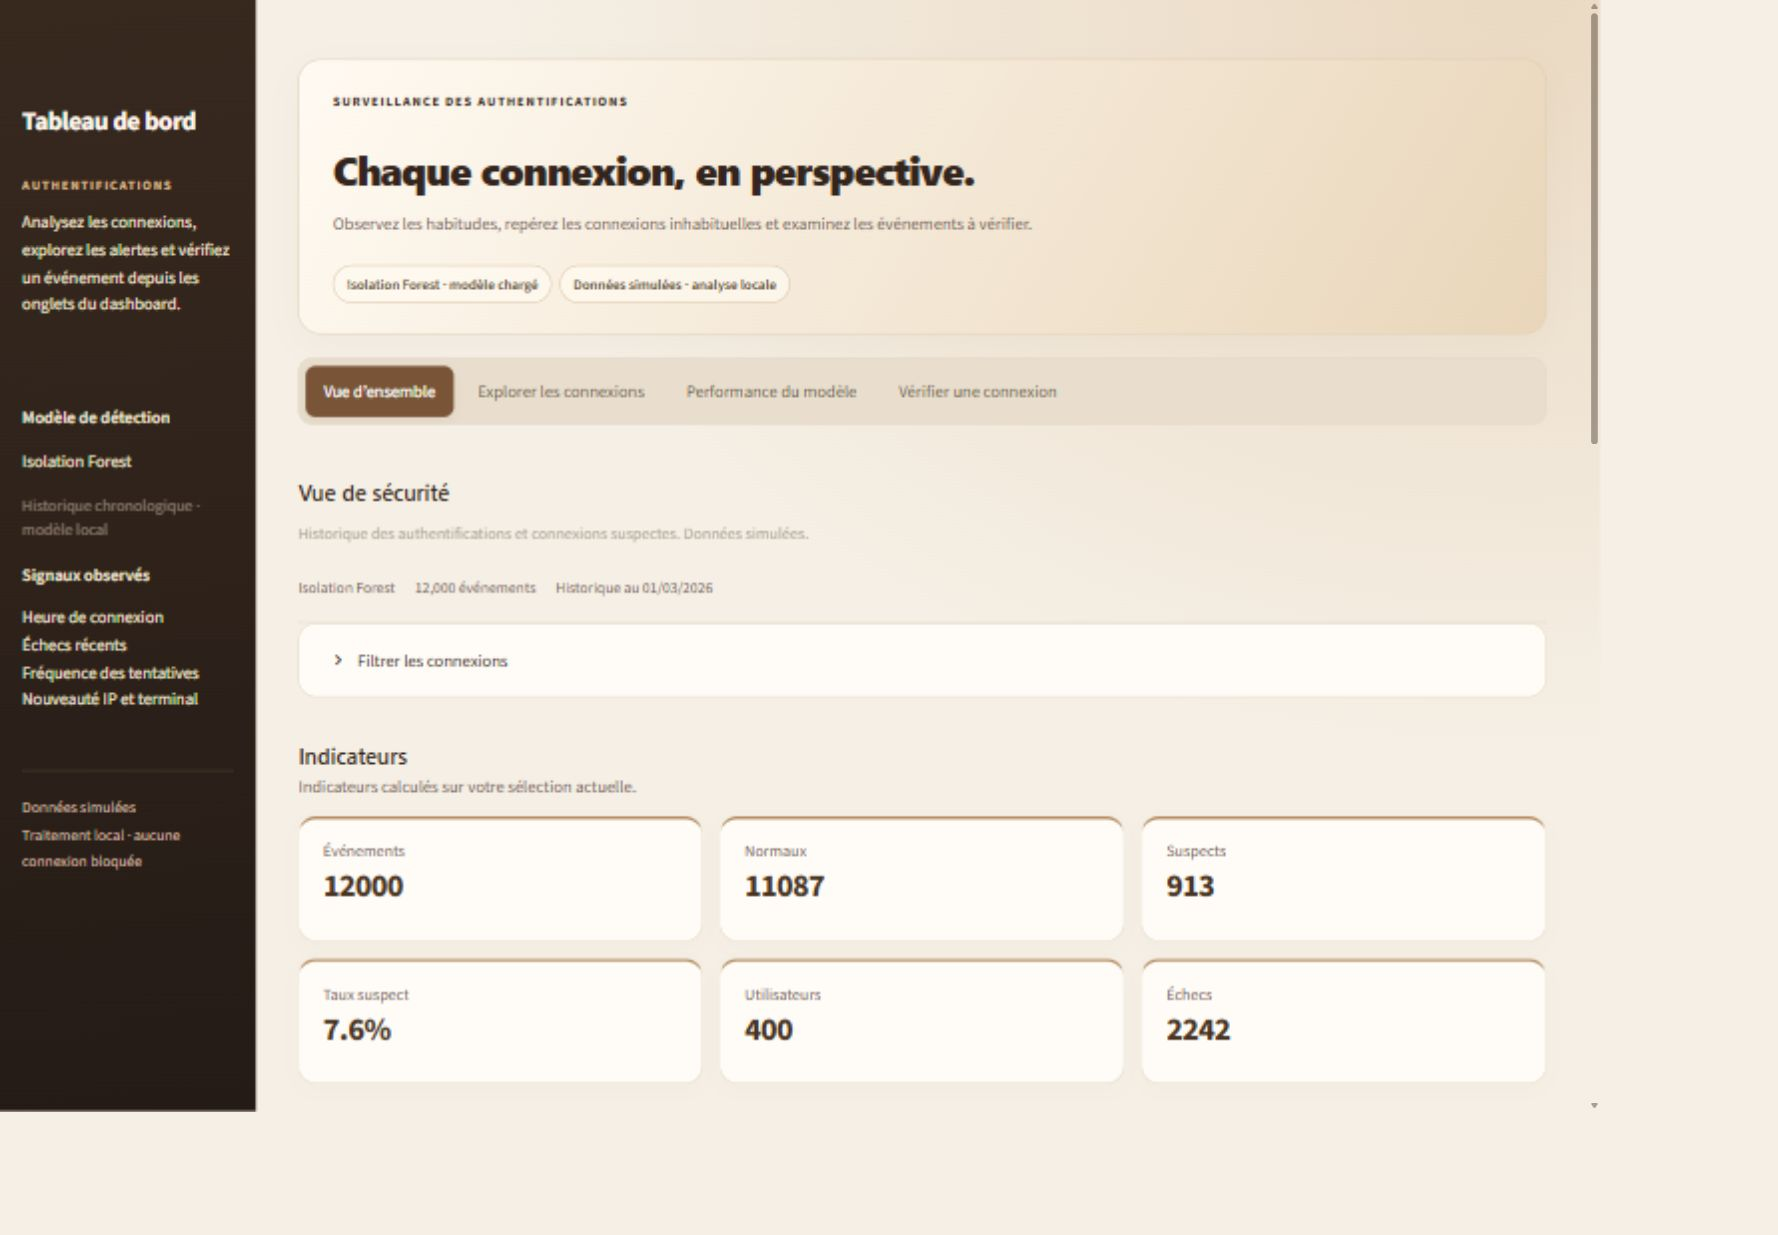
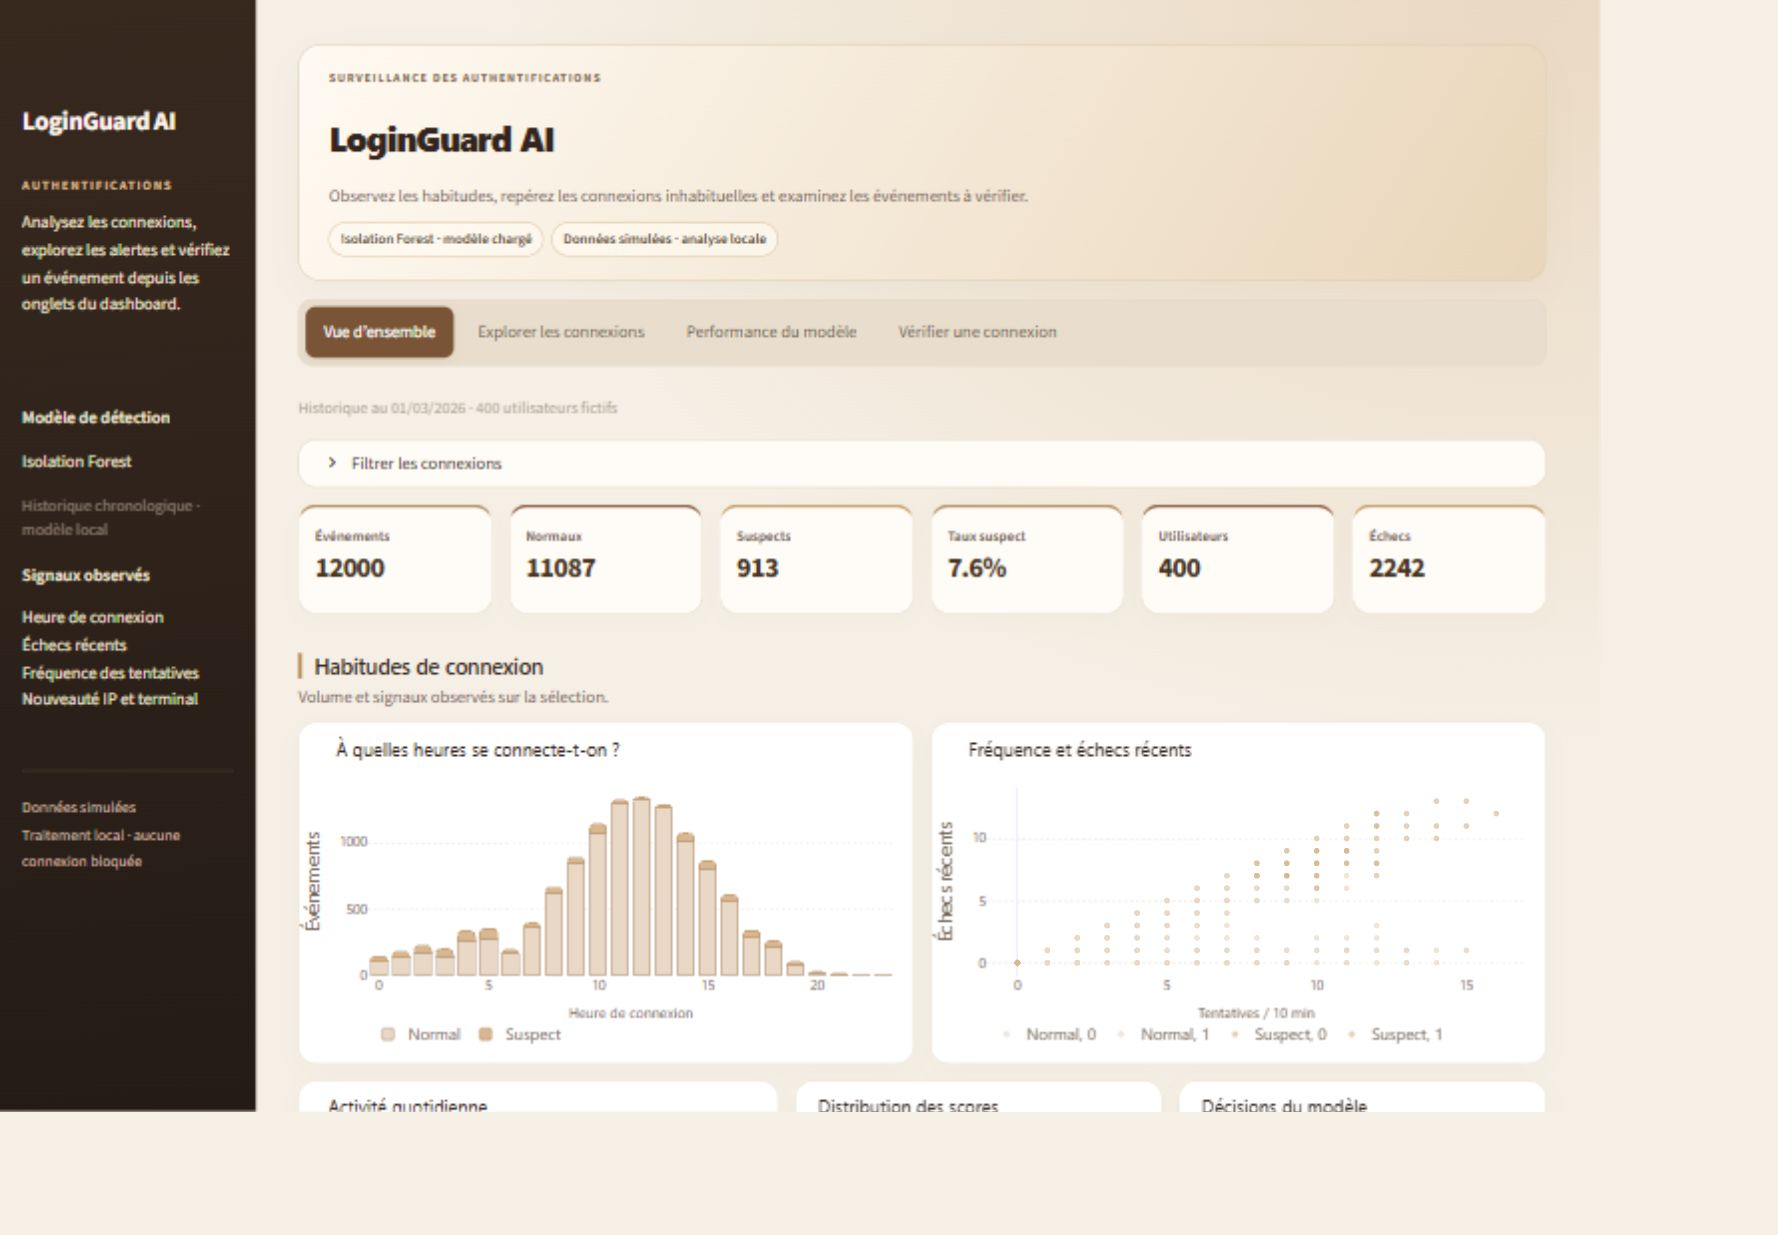
style: refine dashboard charts and introduce LoginGuard AI branding

Changed region(s): [[0.1547, 0.5231, 0.8661, 0.9231], [0.1547, 0.0615, 0.8661, 0.5231], [0.0, 0.0923, 0.1237, 0.1231]]

diff --git a/assets/style.css b/assets/style.css
@@ -38,3 +38,21 @@ button[kind="primary"]{background:#795437;color:white;border-color:#795437;}
 [data-testid="stAlert"]{border-radius:14px;}
 [data-testid="stAppDeployButton"]{display:none;}
 @media(max-width:900px){.block-container{padding:2rem 1rem;}.hero{padding:24px;}[data-baseweb="tab"]{padding:10px;}[data-testid="stMetric"]{padding:16px;}}
+/* Compact proportions from the supplied reference application. */
+.block-container{padding-top:1.6rem;}
+.hero{padding:24px 30px;margin-bottom:18px;}
+.hero h1{font-size:34px!important;margin:0;}
+.hero p{margin:6px 0;font-size:17px;}
+.eyebrow{font-size:12px;margin-bottom:8px;color:#856448;}
+.chip{padding:5px 11px;margin-top:8px;}
+[data-testid="stMetric"]{padding:17px 16px;min-height:110px;position:relative;overflow:hidden;}
+[data-testid="stMetricValue"]{font-size:28px;}
+[data-testid="stMetricLabel"] p{font-size:14px!important;font-weight:650;}
+[data-testid="stColumn"]:nth-child(3n+2) [data-testid="stMetric"]{border-top-color:#8b5b40;}
+[data-testid="stColumn"]:nth-child(3n) [data-testid="stMetric"]{border-top-color:#c69c66;}
+[data-testid="stPlotlyChart"]{box-shadow:0 8px 26px #63472c09;border-color:#e8dccb;}
+.section-heading{margin:22px 0 12px;}
+.section-heading h3{border-left:4px solid #b78a58;padding-left:12px;font-size:21px!important;}
+[data-baseweb="tab-list"]{margin-bottom:14px;}
+[data-testid="stExpander"] details{padding:3px 10px;}
+@media(min-width:641px) and (max-width:1050px){[data-testid="stHorizontalBlock"]{flex-wrap:wrap;}[data-testid="stColumn"]{min-width:210px;}}

diff --git a/src/views/overview.py b/src/views/overview.py
@@ -3,32 +3,37 @@ import streamlit as st
 from src.ui import header, resources, filters, chart, table, activity, section, COLORS, context_strip
 
 def render():
-    header('Vue de sécurité','Historique des authentifications et connexions suspectes. Données simulées.')
+    if not st.session_state.get('_single_dashboard'):
+        header('Vue de sécurité','Historique des authentifications et connexions suspectes. Données simulées.')
     data,bundle = resources()
-    context_strip(['Isolation Forest',f'{len(data):,} événements',f'Historique au {data.timestamp.max():%d/%m/%Y}'])
+    st.caption(f'Historique au {data.timestamp.max():%d/%m/%Y} · {data.user_id.nunique()} utilisateurs fictifs')
     frame = filters(data,'overview')
     if frame.empty:
         st.info('Aucun événement ne correspond aux filtres.')
     else:
-        section('01','Indicateurs','Indicateurs calculés sur votre sélection actuelle.')
         values = [('Événements',len(frame)),('Normaux',int((frame.prediction==0).sum())),('Suspects',int(frame.prediction.sum())),('Taux suspect',f'{frame.prediction.mean():.1%}'),('Utilisateurs',frame.user_id.nunique()),('Échecs',int((frame.login_success==0).sum()))]
-        for offset in (0,3):
-            for col,(label,value) in zip(st.columns(3),values[offset:offset+3]):
-                col.metric(label,value)
-        section('02','Activité des connexions','Évolution de l’activité et répartition des décisions du modèle.')
-        a,b = st.columns([1.35,1])
-        with a:
+        for col,(label,value) in zip(st.columns(6),values):
+            col.metric(label,value)
+        section('02','Habitudes de connexion','Volume et signaux observés sur la sélection.')
+        left,right = st.columns(2)
+        with left:
+            hourly = frame.groupby(['login_hour','status']).size().reset_index(name='Événements')
+            chart(px.bar(hourly,x='login_hour',y='Événements',color='status',title='À quelles heures se connecte-t-on ?',barmode='stack'),accent='violet')
+        with right:
+            sample = frame.sample(min(len(frame),2000),random_state=42)
+            scatter = px.scatter(sample,x='attempts_10min',y='failed_attempts',color='status',symbol='new_ip',opacity=.65,title='Fréquence et échecs récents',hover_data=['user_id','timestamp'])
+            chart(scatter,accent='rose')
+        left,middle,right = st.columns([1.3,1,1])
+        with left:
             activity(frame)
-        with b:
-            donut = px.pie(frame,names='status',hole=.78,title='Décisions du modèle',color='status',color_discrete_map={'Normal':COLORS[0],'Suspect':COLORS[1]})
-            donut.update_traces(textinfo='none',marker=dict(line=dict(color='white',width=4)))
-            donut.add_annotation(text=f'<b>{frame.prediction.mean():.1%}</b><br><span style="font-size:15px">suspects</span>',x=.5,y=.5,showarrow=False,font=dict(size=25,color='#202444'))
+        with middle:
+            scores = px.histogram(frame,x='anomaly_score',nbins=35,title='Distribution des scores')
+            scores.add_vline(x=0,line_dash='dash',line_color='#9a563b',annotation_text='Seuil',annotation_position='top right')
+            chart(scores,accent='blue')
+        with right:
+            donut = px.pie(frame,names='status',hole=.76,title='Décisions du modèle')
+            donut.update_traces(textinfo='none')
+            donut.add_annotation(text=f'<b>{frame.prediction.mean():.1%}</b><br><span style="font-size:13px">suspects</span>',x=.5,y=.5,showarrow=False,font=dict(size=27,color='#493322'))
             chart(donut,accent='turquoise')
         section('03','Connexions à vérifier','Les 100 connexions suspectes les plus récentes dans votre sélection.')
         table(frame[frame.prediction==1].sort_values('timestamp',ascending=False).head(100)[['event_id','user_id','timestamp','source_ip','failed_attempts','anomaly_score','severity']],'recent')
-        section('04','Explorer les habitudes','Horaires observés et scénarios du simulateur, distincts des prédictions du modèle.')
-        a,b = st.columns(2)
-        with a:
-            chart(px.histogram(frame,x='login_hour',nbins=24,title='Activité par heure',labels={'login_hour':'Heure'}),accent='blue')
-        with b:
-            chart(px.histogram(frame[frame.is_anomaly==1],x='anomaly_type',title='Scénarios simulés',color_discrete_sequence=[COLORS[2]],labels={'anomaly_type':'Scénario'}),accent='rose')

diff --git a/src/ui.py b/src/ui.py
@@ -29,7 +29,7 @@ LABELS = {
 def shell():
     st.markdown('<style>'+ (ROOT/'assets/style.css').read_text(encoding='utf-8')+'</style>',unsafe_allow_html=True)
     with st.sidebar:
-        st.markdown('<div class="nav-heading">Tableau de bord</div>',unsafe_allow_html=True)
+        st.markdown('<div class="nav-heading">LoginGuard AI</div>',unsafe_allow_html=True)
         st.markdown('<div class="nav-group">AUTHENTIFICATIONS</div>',unsafe_allow_html=True)
         st.markdown('Analysez les connexions, explorez les alertes et vérifiez un événement depuis les onglets du dashboard.')
         st.divider()
@@ -83,13 +83,13 @@ def chart(fig, accent='violet'):
         fill = fills[index % len(fills)]
         outline = outlines[index % len(outlines)]
         if trace.type in ('bar', 'histogram'):
-            trace.update(marker=dict(color=fill,line=dict(color=outline,width=1.2)))
+            trace.update(marker=dict(color=fill,line=dict(color=outline,width=.6)))
         elif trace.type == 'pie':
-            trace.update(marker=dict(colors=fills,line=dict(color=chart_outline,width=1.3)))
+            trace.update(marker=dict(colors=[outlines[0],fills[1],*fills[2:]],line=dict(color='#fffdfa',width=4)),sort=False,hovertemplate='%{label}<br><b>%{value:,}</b> événements · %{percent}<extra></extra>')
         elif trace.type == 'scatter':
             trace.update(line=dict(color=outline,
-                                   width=2,dash=['solid','dash','dot'][index % 3]),
-                         marker=dict(color=fill,size=7,line=dict(color=outline,width=1.2)))
+                                   width=2.6,dash=['solid','dash','dot'][index % 3]),
+                         marker=dict(color=outline,size=8,line=dict(color='#fffdfa',width=.7)))
             if trace.stackgroup or (trace.fill and trace.fill != 'none'):
                 trace.update(fillcolor=fill)
         elif trace.type == 'heatmap':
@@ -97,11 +97,12 @@ def chart(fig, accent='violet'):
     fig.update_coloraxes(colorscale=['#faf7f0',fills[0],chart_outline])
     fig.update_layout(template='plotly_white', paper_bgcolor='#ffffff',plot_bgcolor='#ffffff',
                       colorway=fills, font=dict(family='Inter, Segoe UI, Arial',color='#766555',size=16),
-                      title=dict(font=dict(size=20,color='#33251e'),x=.04,y=.94),
-                      margin=dict(l=25,r=25,t=80,b=80),height=390,legend_title_text='',
+                      title=dict(font=dict(size=18,color='#33251e'),x=.06,y=.94),
+                      margin=dict(l=30,r=20,t=65,b=65),height=340,bargap=.22,barcornerradius=5,hoverlabel=dict(bgcolor='#39291f',font=dict(color='#fff8ee',size=15),bordercolor='#39291f'),legend_title_text='',
                       legend=dict(orientation='h',y=-.22,x=0,xanchor='left',yanchor='top'))
     fig.update_xaxes(showgrid=False)
-    fig.update_yaxes(gridcolor='#eee6db',zerolinecolor='#eee6db')
+    fig.update_yaxes(gridcolor='#eee6db',griddash='dot',zeroline=False,tickfont=dict(size=13))
+    fig.update_xaxes(tickfont=dict(size=13),title_font=dict(size=14))
     # Translate visible labels without changing source data or exported column names.
     for axis in (fig.layout.xaxis, fig.layout.yaxis):
         if axis.title.text in LABELS:
@@ -144,4 +145,4 @@ def table(frame,key):
 
 def activity(frame):
     counts = frame.assign(jour=frame.timestamp.dt.floor('D')).groupby(['jour','status']).size().reset_index(name='Événements')
-    chart(px.area(counts,x='jour',y='Événements',color='status',color_discrete_map={'Normal':COLORS[0],'Suspect':COLORS[1]},title='Activité des authentifications'),accent='violet')
+    chart(px.line(counts,x='jour',y='Événements',color='status',markers=True,title='Activité quotidienne'),accent='violet')

diff --git a/app.py b/app.py
@@ -3,13 +3,13 @@ import streamlit as st
 from src.ui import shell, resources, filters, table
 from src.views import overview, detection, simulation, performance
 
-st.set_page_config(page_title='Analyse des connexions', page_icon='🔒', layout='wide')
+st.set_page_config(page_title='LoginGuard AI', page_icon='🔒', layout='wide', initial_sidebar_state='expanded')
 # Register only this dashboard, hiding Streamlit's legacy pages directory.
 st.navigation([st.Page(lambda: None, title='Dashboard', default=True)], position='hidden')
 st.session_state['_single_dashboard'] = True
 shell()
 data, bundle = resources()
-st.markdown('<div class="hero"><div class="eyebrow">SURVEILLANCE DES AUTHENTIFICATIONS</div><h1>Chaque connexion, en perspective.</h1><p>Observez les habitudes, repérez les connexions inhabituelles et examinez les événements à vérifier.</p><span class="chip">Isolation Forest · modèle chargé</span><span class="chip">Données simulées · analyse locale</span></div>', unsafe_allow_html=True)
+st.markdown('<div class="hero"><div class="eyebrow">SURVEILLANCE DES AUTHENTIFICATIONS</div><h1>LoginGuard AI</h1><p>Observez les habitudes, repérez les connexions inhabituelles et examinez les événements à vérifier.</p><span class="chip">Isolation Forest · modèle chargé</span><span class="chip">Données simulées · analyse locale</span></div>', unsafe_allow_html=True)
 summary, explorer, quality, verification = st.tabs(['Vue d’ensemble', 'Explorer les connexions', 'Performance du modèle', 'Vérifier une connexion'])
 with summary:
     overview.render()

diff --git a/README.md b/README.md
@@ -1,4 +1,4 @@
-# Analyse des connexions
+# LoginGuard AI
 
 **Détection intelligente des connexions anormales par Intelligence Artificielle**
 
@@ -24,7 +24,7 @@ Python 3.11 (version testée), Pandas 2.3.3, NumPy 2.2.6, Scikit-learn 1.7.2, St
 
 ## Interface
 
-L’interface ne porte aucun nom de produit. Les textes courants utilisent une taille de 17 px, les titres une police sans empattements en gras et les intitulés décrivent directement les fonctions.
+L’interface porte le nom LoginGuard AI. Les textes courants utilisent une taille de 17 px, les titres une police sans empattements en gras et les intitulés décrivent directement les fonctions.
 
 Refonte du 13 novembre 2026 inspirée de l’application fournie : bandeau, cartes et onglets sur un écran. Police Inter si installée, sinon Segoe UI ; aucun service de polices externe. Le modèle chronologique et les fonctions de validation restent ceux du projet.
 
